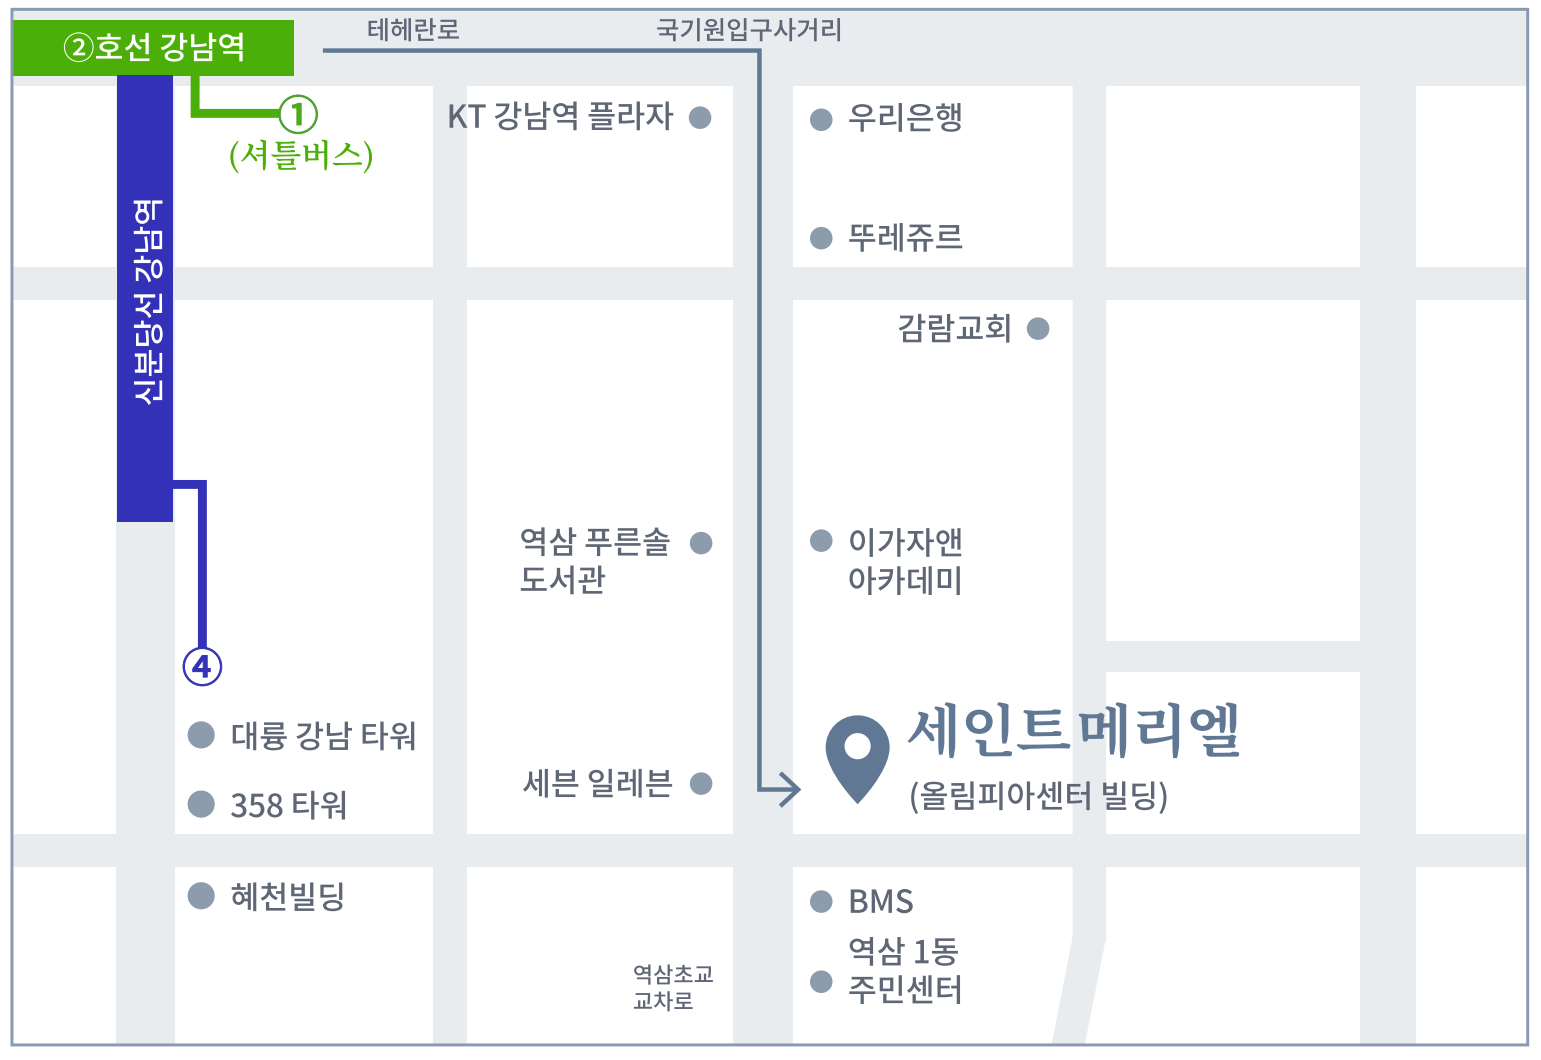
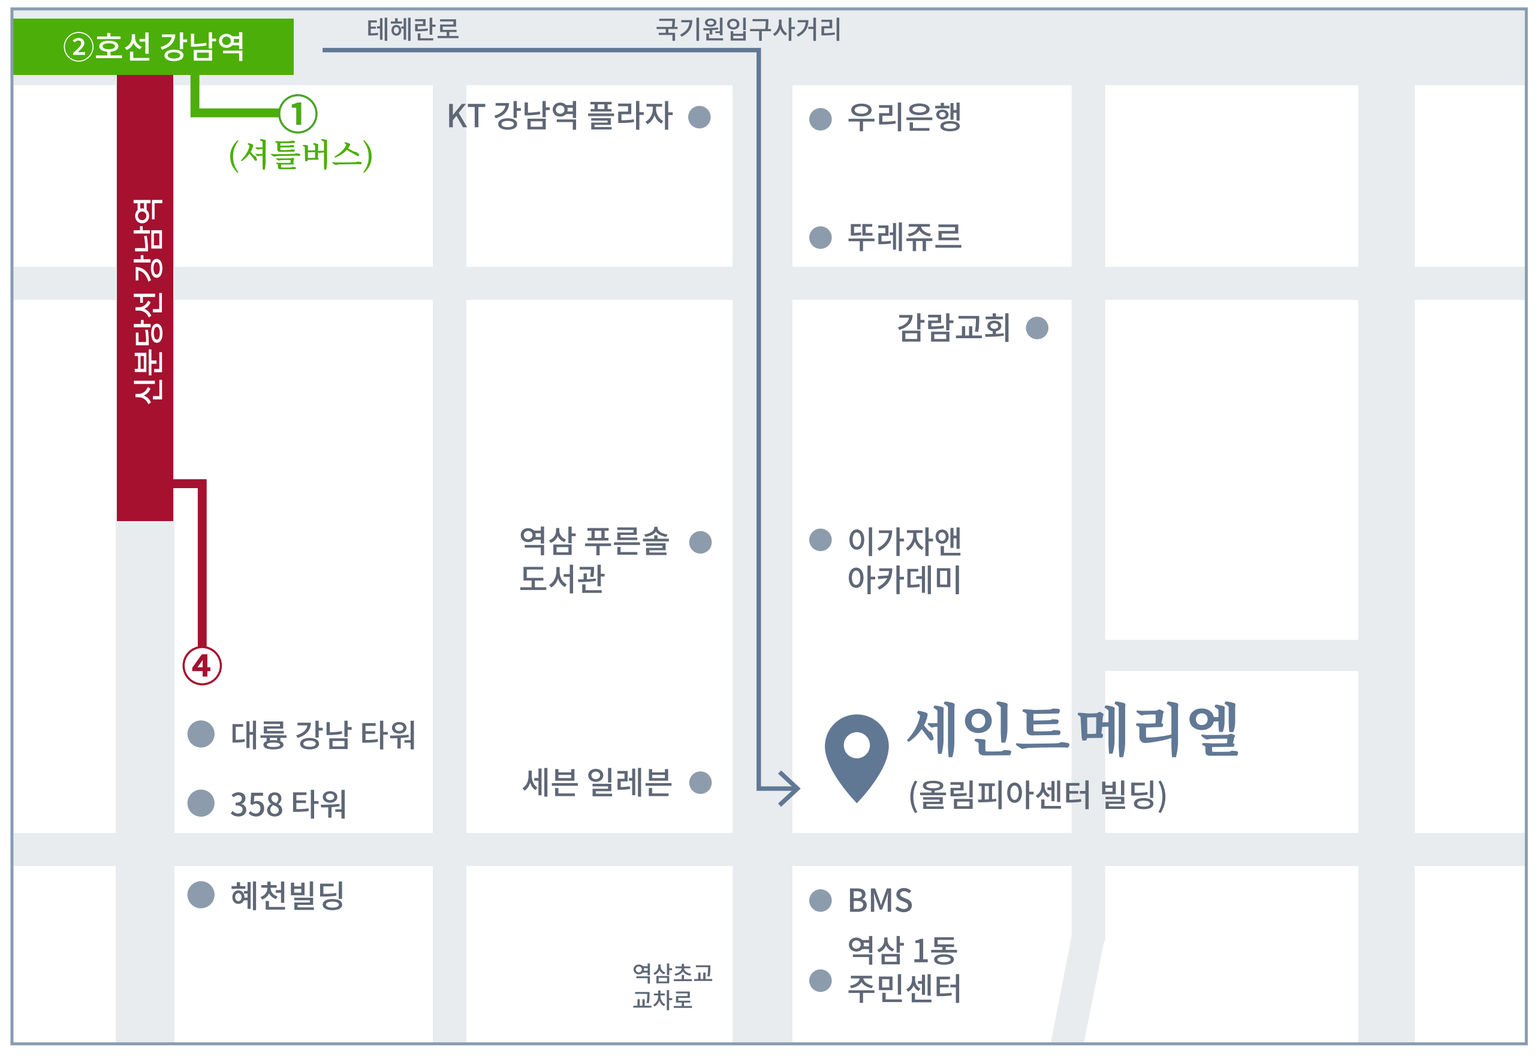
Fix map: recolor Shinbundang line, crop transit text, use Naver short link
- 신분당선 남색 -> #A5112F (연결 요소로 역 막대만 선택, 경로선/핀/글자는 유지)
- 확대용 약도에서 하단 교통편 텍스트 블록 제거 (같은 내용은 HTML로 제공)
- 네이버지도 버튼을 naver.me 단축링크로 교체
- 주차 안내 문구 간결하게 수정

diff --git a/index.html b/index.html
@@ -298,7 +298,7 @@
     </p>
 
     <div class="navRow">
-      <a class="btn" href="https://map.naver.com/p/search/%EC%84%B8%EC%9D%B8%ED%8A%B8%EB%A9%94%EB%A6%AC%EC%97%98" target="_blank" rel="noopener">네이버지도</a>
+      <a class="btn" href="https://naver.me/F3EAzV2I" target="_blank" rel="noopener">네이버지도</a>
       <a class="btn" href="https://map.kakao.com/?q=%EC%84%B8%EC%9D%B8%ED%8A%B8%EB%A9%94%EB%A6%AC%EC%97%98" target="_blank" rel="noopener">카카오맵</a>
       <button class="btn" type="button" data-copy="서울 강남구 논현로79길 72 올림피아센터 빌딩">주소 복사</button>
     </div>
@@ -332,10 +332,9 @@
       <details>
         <summary>주차</summary>
         <div class="body">
-          강남 한복판이라 주차 공간이 넉넉하지 않습니다.<br>
-          가급적 <b style="display:inline">대중교통</b>을 이용해 주시면 감사하겠습니다.<br><br>
-          차량을 가지고 오시는 경우, 예식장 건물(올림피아센터 빌딩)로 오시면
-          현장에서 주차 안내를 도와드립니다. 안내에 따라 주차해 주세요.
+          예식장 주차 공간이 넉넉하지 않아 인근 주차장으로 안내해 드릴 수 있습니다.<br>
+          차량 이용 시 예식장 건물(올림피아센터 빌딩)로 오시면 안내해 드리겠습니다.<br><br>
+          가능하시면 대중교통을 이용해 주시면 감사하겠습니다.
         </div>
       </details>
     </div>

diff --git a/build_assets.py b/build_assets.py
@@ -7,7 +7,9 @@
 """
 
 import os
+import numpy as np
 from PIL import Image
+from scipy import ndimage
 import pypdfium2 as pdfium
 
 SRC = "imgs"
@@ -90,20 +92,63 @@ og.save(os.path.join(OUT, "og.jpg"), "JPEG", quality=86, optimize=True)
 total += os.path.getsize(os.path.join(OUT, "og.jpg"))
 print(f"og.jpg     1200x630  {os.path.getsize(os.path.join(OUT,'og.jpg'))/1024:.0f}KB")
 
-# 약도 PDF -> PNG (선이 얇아서 JPEG보다 PNG가 깔끔)
-#   map-full.png : 약도 전체. 페이지에서 탭하면 새 탭으로 열려 확대해 볼 수 있음.
-#   map.png      : 지도 다이어그램만 크롭. 페이지에 인라인으로 보여주는 용도.
-#                  (아래 교통편 텍스트는 이미지 대신 HTML로 넣어야 폰에서 읽힘)
+# ── 약도 ────────────────────────────────────────────────────────────
+# 업체 PDF의 아래쪽 교통편 텍스트 블록은 잘라냅니다. 폰에서 축소되면 못 읽고,
+# 같은 내용을 index.html 에 HTML 텍스트로 넣어두었습니다.
+#   map-full.png : 다이어그램 고해상도. 탭하면 새 탭에서 크게.
+#   map.png      : 같은 그림 축소본. 페이지에 인라인 표시.
 page = pdfium.PdfDocument(MAP_PDF)[0]
 w_pt, h_pt = page.get_size()
-full = Image.fromarray(page.render(scale=1800 / w_pt).to_numpy()).convert("RGB")
-full.save(os.path.join(OUT, "map-full.png"), "PNG", optimize=True)
+full = Image.fromarray(page.render(scale=3000 / w_pt).to_numpy()).convert("RGB")
 
-# 다이어그램 영역 (원본 대비 비율로 지정 — PDF가 바뀌면 여기만 조정)
+# 다이어그램 영역 (원본 대비 비율 — PDF가 바뀌면 여기만 조정)
 cl, ct, cr, cb = 0.072, 0.163, 0.928, 0.628
 crop = full.crop((int(cl * full.width), int(ct * full.height),
                   int(cr * full.width), int(cb * full.height)))
-crop.save(os.path.join(OUT, "map.png"), "PNG", optimize=True)
+
+# 신분당선을 실제 노선색(빨강)으로 정정.
+# 업체 약도는 신분당선을 남색으로 그렸는데, 그 남색은 도보 경로선·핀·
+# "세인트 메리엘" 글자에도 함께 쓰입니다. 그래서 색으로만 고르면 지도가 통째로
+# 빨개집니다. 남색 영역을 연결 요소로 나눈 뒤 "가장 큰 덩어리"(= 역 막대 + ④번
+# 출구 표시)만 칠합니다.
+SHINBUNDANG = (165, 17, 47)      # #A5112F — 후보 4종을 비교해 고른 값
+NAVY_R = 51                      # 원본 남색 #3331b7 의 R 채널
+
+ca = np.array(crop).astype(int)
+navy = ((ca[:, :, 2] > ca[:, :, 0] + 25) &
+        (ca[:, :, 2] > ca[:, :, 1] + 25) &
+        (ca[:, :, 2] > 90))
+lab, ncomp = ndimage.label(navy, structure=np.ones((3, 3)))
+sizes = ndimage.sum(navy, lab, range(1, ncomp + 1))
+main = int(np.argmax(sizes)) + 1
+bar = (lab == main)
+
+# 엉뚱한 덩어리를 칠하지 않도록 검증 — 세로로 길고 왼쪽에 있어야 합니다.
+ys, xs = np.nonzero(bar)
+h, w = bar.shape
+assert bar.sum() > navy.sum() * 0.5,        "신분당선 막대를 못 찾았습니다"
+assert (ys.max() - ys.min()) > h * 0.4,     "찾은 덩어리가 세로로 길지 않습니다"
+assert xs.max() < w * 0.3,                  "찾은 덩어리가 지도 왼쪽에 있지 않습니다"
+
+# ④ 원 안의 숫자처럼 링에 닿지 않아 따로 떨어진 조각도 같이 칠합니다.
+# (안 하면 링만 빨갛고 숫자는 남색으로 남습니다)
+y0, y1, x0, x1 = ys.min(), ys.max(), xs.min(), xs.max()
+for cid, sl in enumerate(ndimage.find_objects(lab), start=1):
+    if cid == main or sl is None:
+        continue
+    if sl[0].start >= y0 and sl[0].stop <= y1 + 1 and sl[1].start >= x0 and sl[1].stop <= x1 + 1:
+        bar |= (lab == cid)
+
+# 안티에일리어싱 보존: 흰 배경 위 남색의 투명도를 구해 같은 투명도로 빨강을 올림
+alpha = np.clip((255 - ca[:, :, 0]) / (255 - NAVY_R), 0, 1)[..., None]
+recolored = np.array(crop).astype(float)
+recolored[bar] = ((1 - alpha) * 255 + alpha * np.array(SHINBUNDANG))[bar]
+crop = Image.fromarray(recolored.round().astype(np.uint8))
+
+crop.save(os.path.join(OUT, "map-full.png"), "PNG", optimize=True)
+small = crop.resize((1540, round(crop.height * 1540 / crop.width)), Image.LANCZOS)
+small.save(os.path.join(OUT, "map.png"), "PNG", optimize=True)
+print("  신분당선 정정: {}px -> #{:02X}{:02X}{:02X}".format(int(bar.sum()), *SHINBUNDANG))
 
 for n in ("map.png", "map-full.png"):
     sz = os.path.getsize(os.path.join(OUT, n))
